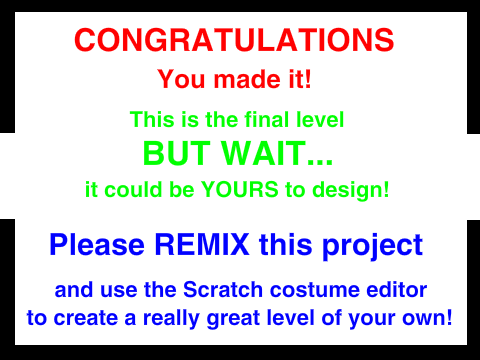
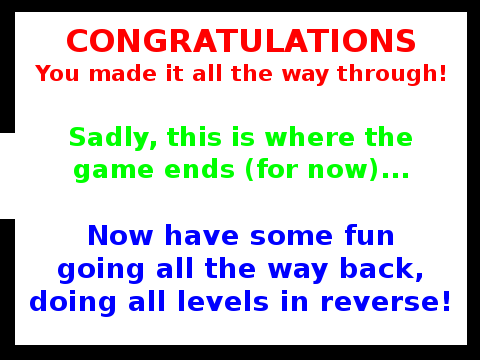
Adjusted end of game

diff --git a/html5/engulf.html b/html5/engulf.html
@@ -72,7 +72,6 @@
 <img id="level55" src="level55.png" title="Level 55 - Pegs and Holes" />
 <img id="level56" src="level56.png" title="Level 56 - Love" />
 <img id="level57" src="level57.png" title="Level 57 - Congrats" />
-<img id="level58" src="level58.png" title="Level 58 - Finish" />
 </div>
 <audio id="audiosprites"><source src="audiosprites.mp3" type="audio/mpeg" preload /></audio>
 <script type="text/javascript" src="engulf.js"></script>

diff --git a/html5/engulf.css b/html5/engulf.css
@@ -17,7 +17,7 @@ h2, p {
 }
 
 .levels > img {
-	width: 5%;
-	height: 5%;
+	width: 5.2%;
+	height: 5.2%;
 	opacity: 0.1;
 }
